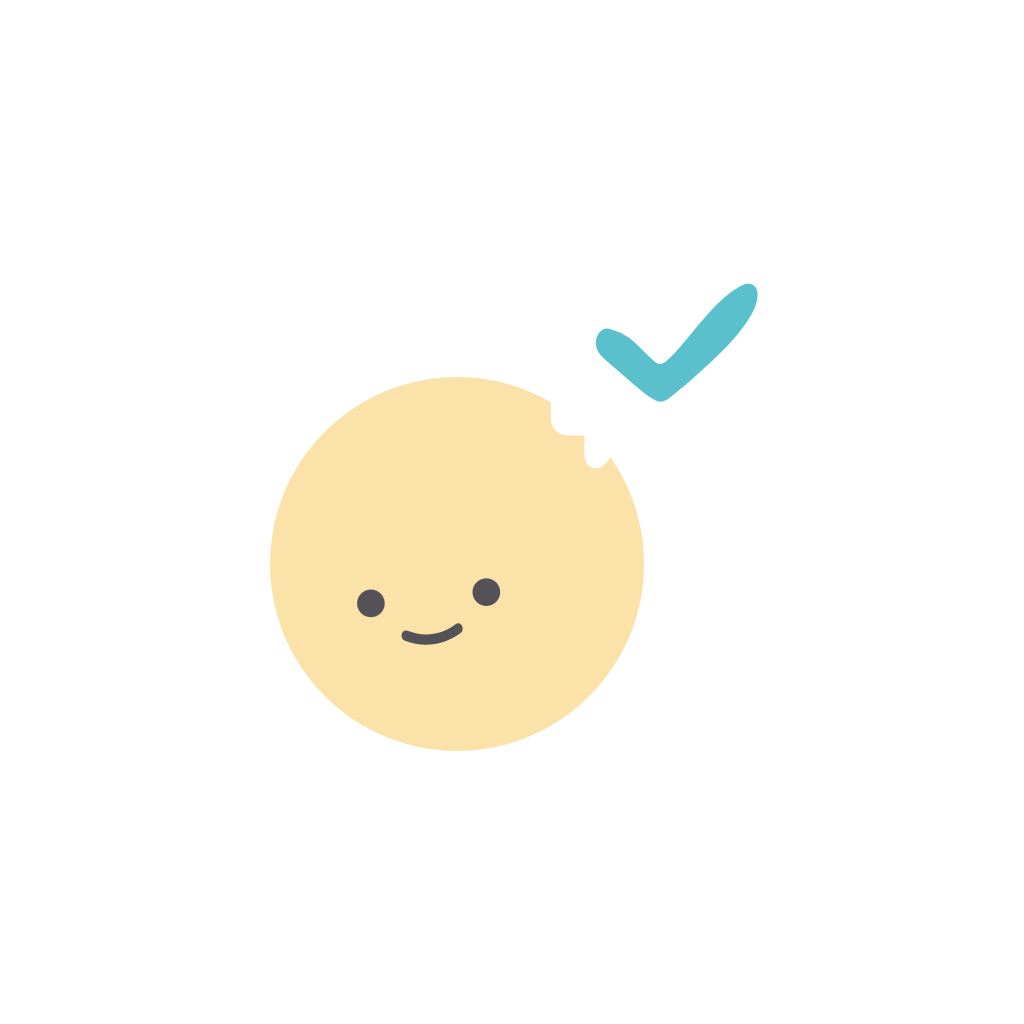
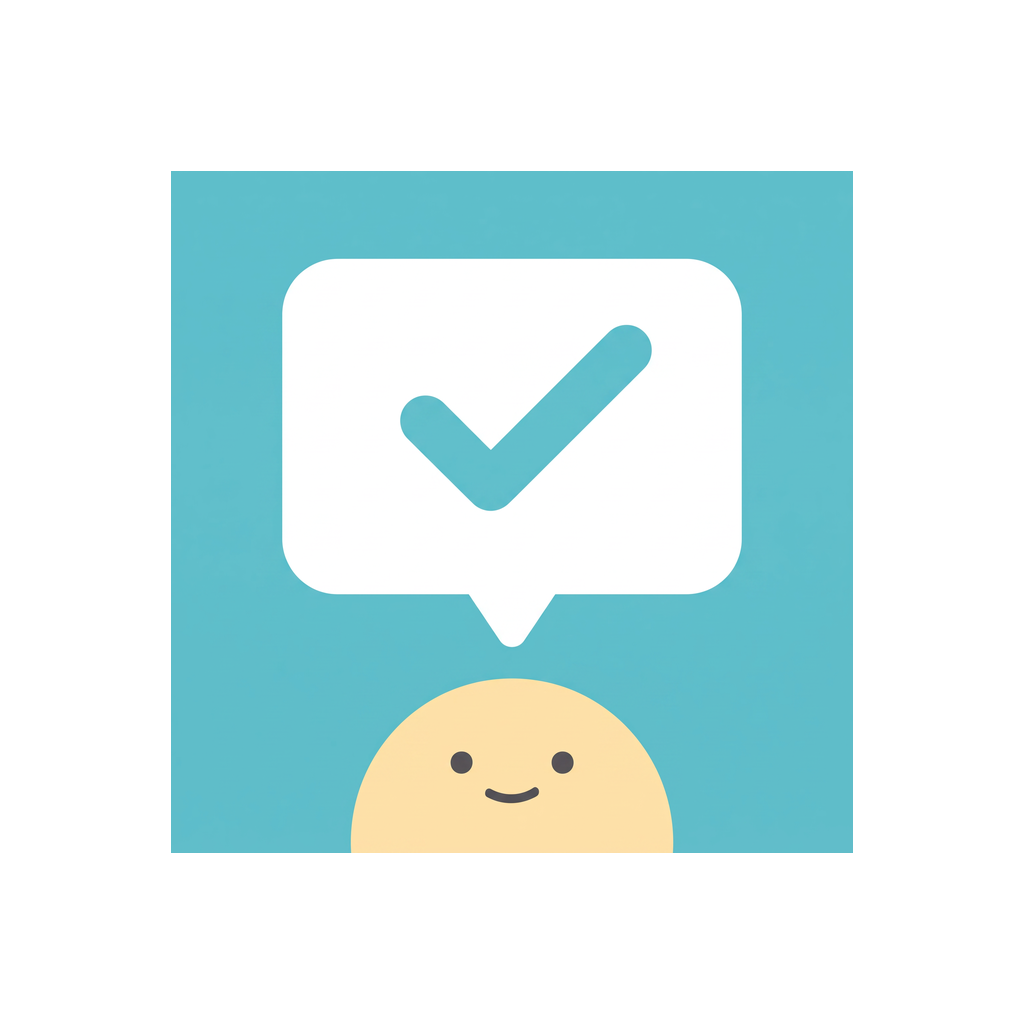
정식 앱 아이콘 적용 (힉스필드 시안 5번: 체크 말풍선 + 빼꼼 얼굴)
- 앱 아이콘, 안드로이드 적응형(배경 #5FBECA)·테마 아이콘, 알림 아이콘, 스플래시, 파비콘
- 스토어 512 아이콘, 그래픽 이미지 다시 만듦

diff --git a/docs/MARKET_REVIEW.md b/docs/MARKET_REVIEW.md
@@ -35,7 +35,7 @@
 
 ### 4. 완성도 디테일
 - 한국어 화면에 영어 문구가 섞여 있음 (`+ new todo`)
-- 앱 아이콘이 임시 디자인 (온보딩 캐릭터로 만든 초안)
+- ~~앱 아이콘이 임시 디자인~~ → 정식 아이콘 적용 (2026-10-22)
 - 처음 시작할 때 테마 설정 3단계가 있어 바로 쓰고 싶은 사람에게는 조금 김
 
 ## 운영 위험 (사용자에게는 안 보이지만 더 위험한 것)
@@ -55,7 +55,7 @@
 | 3 | ~~오프라인에서도 보기·체크~~ ✅ 2026-10-22 | 할 일 목록을 기기에 저장, 오프라인 변경은 연결되면 순서대로 전송 (하루 기록은 아직 온라인 전용) | 완료 |
 | 4 | ~~반복 일정~~ ✅ 2026-10-22 | 매일 / 평일 / 매주 같은 요일, 삭제 시 '이 날만 / 반복 전체' | 완료 |
 | 5 | 홈 화면 위젯 | 매일 다시 열게 만드는 기능 (작업량 큼) | 업데이트 |
-| 6 | 영어 문구 정리 ✅ / 정식 아이콘 (남음) | 첫인상. 아이콘은 디자인 필요 | 아이콘만 남음 |
+| 6 | ~~영어 문구 정리, 정식 아이콘~~ ✅ 2026-10-22 | 아이콘: 힉스필드 시안 5번 (체크 말풍선 + 빼꼼 얼굴) | 완료 |
 
 1~2번은 출시 전에 바로 할 수 있고, 3번까지 하면 리뷰 평점이 확실히 달라질 것으로 봅니다.
 

diff --git a/store/android/README.md b/store/android/README.md
@@ -11,7 +11,7 @@ Play Console(https://play.google.com/console)에 그대로 옮겨 쓸 수 있게
 | 휴대전화 스크린샷 (2~8장) | `screenshots/01_todo.png` ~ `06_picker.png` | 1080×1920 PNG, 6장 |
 
 - 스크린샷 순서: 투두리스트 → 캘린더 스티커 → 하루 기록 → 테마 선택 → 다크 모드 → 날짜 선택.
-- 아이콘은 온보딩 캐릭터로 만든 **임시 디자인**입니다. 정식 아이콘으로 바꿀 때는 `client/assets/`의 같은 이름 파일(icon, adaptive-icon, monochrome-icon, splash-icon, notification-icon, favicon)과 이 폴더의 `icon-512.png`를 함께 교체하면 됩니다.
+- 아이콘은 힉스필드로 만든 시안 5번(체크 말풍선 + 빼꼼 얼굴)입니다. 시안 전체는 `store/icon-drafts/`에 있습니다. 바꿀 때는 `client/assets/`의 같은 이름 파일(icon, adaptive-icon, monochrome-icon, splash-icon, notification-icon, favicon)과 이 폴더의 `icon-512.png`, `feature-graphic.png`를 함께 교체하세요.
 
 ## 2. 기본 스토어 등록정보 (한국어)
 
